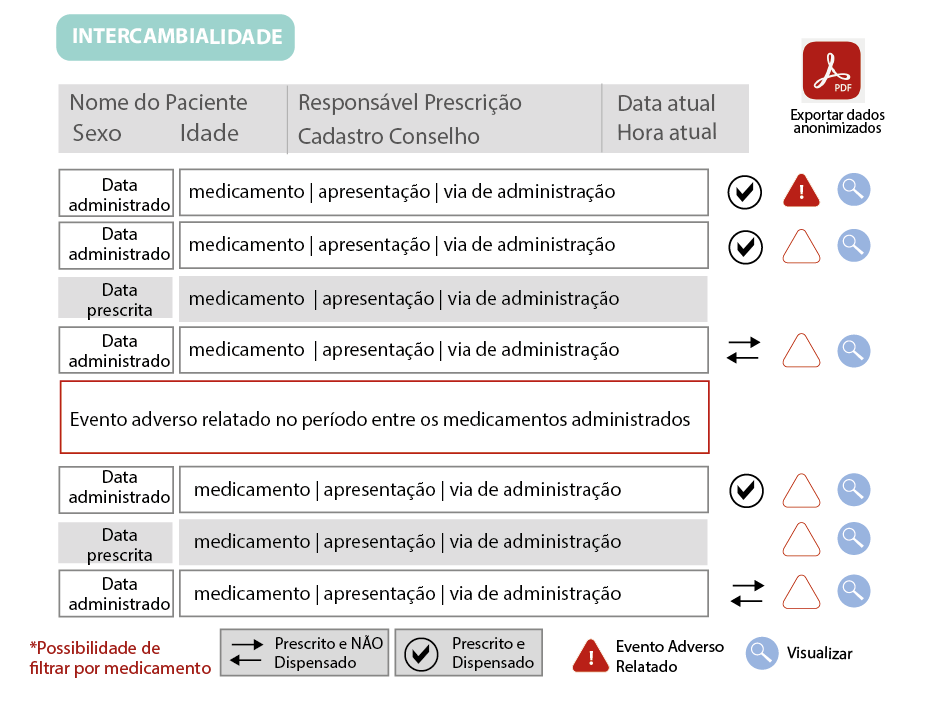
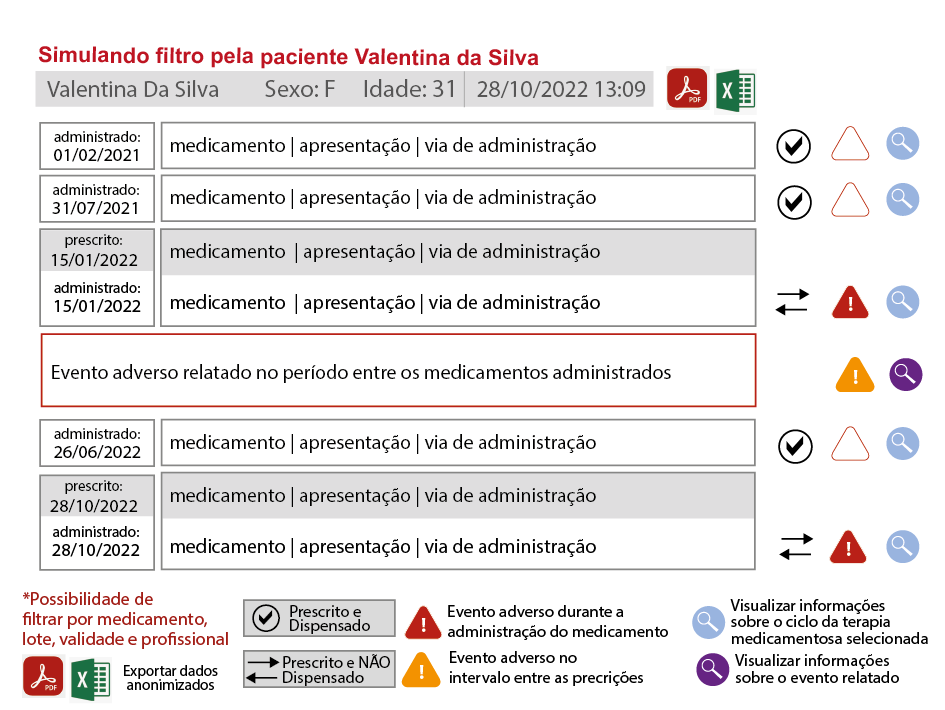
descrição do commit

diff --git a/src/app/components/intercambialidade/intercambialidade-info/intercambialidade-info.component.html b/src/app/components/intercambialidade/intercambialidade-info/intercambialidade-info.component.html
@@ -9,54 +9,22 @@
       </div> -->
       <div class="division">
         <h2 class="raleway" style="color: #0376bb;">
-          Informações da prescrição e dispensação realizada
         </h2>
         <div class="division">
+          A tela abaixo é sugerida para identificar todos medicamentos administrados, 
+          com indicação rápida sobre troca/substituição e evento adverso do paciente selecionado.
           <img src="assets/intercambialidade.png">
-          </div>
+        </div>
+
+      </div>
+
       
-
-        <paciente-medico [paciente]="_paciente_medico"></paciente-medico>
-
-        <medicamento [medicamento]="medicamento_input"></medicamento>
-
-      </div>
-
       <div class="division">
-        <h2 class="raleway" style="color: #0376bb;">
-          Informações da Administração realizada
-        </h2>
-        <div class="division">
-          <div class="block m6 s12">
-            <responsavel [responsavel]="administracao_input?.responsavel"></responsavel>
-          </div>
-          <div class="block m6 s12">
-            <administracao-info [administracao]="administracao_input"></administracao-info>
-          </div>
-        </div>
-
-      </div>
-
-      <div class="division">
-        <div class="division">
-          <h2 class="raleway" style="color: #0376bb;">
-            Controle da Notificação
-          </h2>
-        </div>
+       
         <!--
           evoluir para adicionar varias reações com informação de inicio e e usuario que reporta, quem sabe integrar como o vigimed via api .
           https://primaryreporting.who-umc.org/Reporting/Report?ReporterID=25ba563e-f7f9-4d9d-b9cd-61a1d9589d39 -->
-        <div class="division">
-          <mat-form-field class="block m12" hideRequiredMarker="false" floatLabel="always">
-            <mat-label>Descreva a situação</mat-label>
-            <textarea matInput required formControlName="situacao"
-              placeholder="Descreva com suas palavras qualquer sintoma ou efeito indesejado que considere ser causado pelo(s) medicamento(s)."
-              cdkTextareaAutosize cdkAutosizeMinRows="2" cdkAutosizeMaxRows="3"></textarea>
-            <mat-hint style="font-size: 12px; color: #f44336;" *ngIf="fb.get('situacao')?.invalid">
-              Situação obrigatoria
-            </mat-hint>
-          </mat-form-field>
-        </div>
+
       </div>
 
     </div>
@@ -72,12 +40,6 @@
       matTooltip="Voltar">
       <mat-icon>arrow_back</mat-icon>
       <strong>Voltar</strong>
-    </button>
-
-    <button mat-raised-button style="color: #1dbb3f" (click)="next_stepper()" matTooltipPosition="above"
-      matTooltip="Notificar">
-      <mat-icon>done_outline</mat-icon>
-      <strong>Registrar Notificação</strong>
     </button>
 
   </div>

diff --git a/src/app/components/dispensacao/dispensacao-form/dispensacao-form.component.html b/src/app/components/dispensacao/dispensacao-form/dispensacao-form.component.html
@@ -36,12 +36,12 @@
         </div>
         <mat-form-field class="block m4" hideRequiredMarker="false" floatLabel="always" style="padding-right: 7px;">
           <mat-label>Lote</mat-label>
-          <input aria-label="Lote" matInput type="text" placeholder="Lote_xpto" formControlName="lote">
+          <input aria-label="Lote" matInput type="text" placeholder="Insira o lote" formControlName="lote">
           <mat-error align="end" *ngIf="fb.get('lote')?.invalid">Lote obrigatoria</mat-error>
         </mat-form-field>
         <mat-form-field class="block m4" hideRequiredMarker="false" floatLabel="always">
           <mat-label>Validade</mat-label>
-          <input aria-label="Validade" matInput type="text" placeholder="01/01/2031" formControlName="validade">
+          <input aria-label="Validade" matInput type="text" placeholder="Insira a data ex: 01/01/2001" formControlName="validade">
           <mat-error align="end" *ngIf="fb.get('validade')?.invalid">Validade obrigatoria</mat-error>
         </mat-form-field>
       </div>
@@ -50,7 +50,7 @@
 
         <mat-form-field class="block m12" hideRequiredMarker="false" floatLabel="always">
           <mat-label>Justificativa para a troca</mat-label>
-          <input aria-label="justificativa" matInput type="text" placeholder="justificativa  xpto"
+          <input aria-label="justificativa" matInput type="text" placeholder="justificativa"
             formControlName="justificativa">
           <mat-error align="end" *ngIf="fb.get('justificativa')?.invalid">Lote obrigatoria</mat-error>
         </mat-form-field>

diff --git a/src/app/components/medicamento/medicamento.component.html b/src/app/components/medicamento/medicamento.component.html
@@ -190,11 +190,11 @@
     <div class="division" style="padding: 7px;">
       <div class="division">
         <p style="font-size: 18px;">
-          Diluir em soro fisiológico: {{is_dilutable ? 'Sim' : 'Não'}}
+          Diluir (transformação prevista): {{is_dilutable ? 'Sim' : 'Não'}}
           <span style="margin-left: 7px;">
-            <button mat-button style="background-color: #90f3a6;" (click)="is_dilutable = true">SIM, diluir em soro fisiológico</button>
+            <button mat-button style="background-color: #90f3a6;" (click)="is_dilutable = true">SIM, diluir </button>
             <button mat-button style="margin-left: 7px; background-color: #f49595;"
-              (click)="is_dilutable=false">NÃO diluir em soro fisiológico</button>
+              (click)="is_dilutable=false">NÃO diluir </button>
           </span>
         </p>
       </div>
@@ -271,7 +271,7 @@
 
       <div class="block m4">
         <p style="margin: 0; color: #383838; padding: 0px 0px 7px 0px;">
-          Diluir em soro fisiológico? {{_medicamento.dilute ? 'Sim' : 'Não'}}
+          Diluir (transformação prevista)? {{_medicamento.dilute ? 'Sim' : 'Não'}}
         </p>
         <p
           style="margin: 0; white-space: nowrap; text-overflow: ellipsis; overflow: hidden; font-size: 14px; color: #0000008a;">

diff --git a/src/app/components/rastreabilidade/rastreabilidade.component.html b/src/app/components/rastreabilidade/rastreabilidade.component.html
@@ -8,20 +8,29 @@
           all_inbox
         </mat-icon>
       </span>
-      Rastreabilidade Geral
+      Rastreabilidade
     </h2>
 
   </div>
 
   <div class="container-margin">
 
-    <div class="division" [class.hide]="_form" style="padding-bottom: 17px;">
+    <!--<div class="division" [class.hide]="_form" style="padding-bottom: 17px;">
       <element-list [settings]="settings" [values]="values" (action)="elementListEvent($event)"></element-list>
     </div>
 
-    <!-- <rastreabilidade-info [forms]="_form" (action)="formEvent($event)" [class.hide]="!_form"></rastreabilidade-info> -->
+    <rastreabilidade-info [forms]="_form" (action)="formEvent($event)" [class.hide]="!_form"></rastreabilidade-info> -->
 
 
   </div>
-
+  <div class="block m10" style="margin: auto;">
+  <div class="division">
+    
+      A tela abaixo é sugerida para identificar todos medicamentos administrados,
+      para visalizar lote e validade, 
+          com indicação rápida sobre troca/substituição e evento adverso. <br>
+    <img src="assets/busca.png">
+    <img src="assets/rastreabilidade.png">
+  </div>
+  </div>
 </div>

diff --git a/src/app/components/notificacao/notificacao.component.html b/src/app/components/notificacao/notificacao.component.html
@@ -8,19 +8,28 @@
           circle_notifications
         </mat-icon>
       </span>
-      Notificação de Eventos Adversos a Medicamentos Biológicos
+      Avaliação dos resultados - terapia medicamentosa e eventos adversos
     </h2>
 
   </div>
+  
+ 
+   <div class="division">
+    <img src="assets/busca.png">
+  </div>
+  <div class="division">
+    <img src="assets/avaliacao.png">
+  </div>
 
   <div class="container-margin">
-
+<!--
     <div class="division" [class.hide]="_form" style="padding-bottom: 17px;">
       <element-list [settings]="settings" [values]="values" (action)="elementListEvent($event)"></element-list>
     </div>
 
     <notificacao-form [forms]="_form" (action)="formEvent($event)" [class.hide]="!_form"></notificacao-form>
-
-  </div>
+ -->
+  </div>  
+ 
 
 </div>

diff --git a/src/app/components/intercambialidade/intercambialidade.component.ts b/src/app/components/intercambialidade/intercambialidade.component.ts
@@ -62,7 +62,7 @@ export class IntercambialidadeComponent implements AfterViewInit, OnDestroy {
         radio: false,
         name: '',
         consulta_label: 'Consultar',
-        consulta_placeholder: 'Digite aqui algo relacionado a listagem'
+        consulta_placeholder: 'Faça a busca por paciente, registro hospitalar, medicamento ou período de dispensação'
       }
     });
     const _lresult = [];
@@ -84,6 +84,7 @@ export class IntercambialidadeComponent implements AfterViewInit, OnDestroy {
   /**
    * Methods
    */
+  
 
   private getIntercambialidade(data){
     const result = [];

diff --git a/src/app/components/administracao/administracao-form/administracao-form.component.html b/src/app/components/administracao/administracao-form/administracao-form.component.html
@@ -37,7 +37,7 @@
         <div class="division">
           <mat-form-field class="block m12" hideRequiredMarker="false" floatLabel="always">
             <mat-label>Observação</mat-label>
-            <input aria-label="obs" matInput type="text" placeholder="Observação xpto" formControlName="obs">
+            <input aria-label="obs" matInput type="text" placeholder="Observação" formControlName="obs">
             <mat-error align="end" *ngIf="fb.get('obs')?.invalid">Observação obrigatoria</mat-error>
           </mat-form-field>
         </div>

diff --git a/src/app/components/intercambialidade/intercambialidade-dialog/intercambialidade-dialog.component.ts b/src/app/components/intercambialidade/intercambialidade-dialog/intercambialidade-dialog.component.ts
@@ -74,7 +74,7 @@ export class IntercambialidadeDialogComponent implements AfterViewInit, OnDestro
         radio: false,
         name: '',
         consulta_label: 'Consultar',
-        consulta_placeholder: 'Digite aqui algo relacionado a listagem'
+        consulta_placeholder: 'Faça a busca por paciente, registro hospitalar, medicamento ou período de dispensação'
       }
     });
     const _lresult = [];

diff --git a/src/app/components/administracao/administracao.component.ts b/src/app/components/administracao/administracao.component.ts
@@ -53,7 +53,7 @@ export class AdministracaoComponent implements AfterViewInit, OnDestroy {
         radio: false,
         name: '',
         consulta_label: 'Consultar',
-        consulta_placeholder: 'Digite aqui algo relacionado ao Paciente'
+        consulta_placeholder: 'Faça a busca por paciente, registro hospitalar, medicamento ou período de administração'
       }
     });
     const _lresult = [];

diff --git a/src/app/components/rastreabilidade/rastreabilidade.component.ts b/src/app/components/rastreabilidade/rastreabilidade.component.ts
@@ -62,7 +62,7 @@ export class RastreabilidadeComponent implements AfterViewInit, OnDestroy {
         radio: false,
         name: '',
         consulta_label: 'Consultar',
-        consulta_placeholder: 'Digite aqui algo relacionado a listagem'
+        consulta_placeholder: 'Faça a busca por paciente, registro hospitalar, medicamento ou período de dispensação'
       }
     });
     const _lresult = [];

diff --git a/src/app/components/rastreabilidade/rastreabilidade-dialog/rastreabilidade-dialog.component.ts b/src/app/components/rastreabilidade/rastreabilidade-dialog/rastreabilidade-dialog.component.ts
@@ -73,7 +73,7 @@ export class RastreabilidadeDialogComponent implements OnInit, OnDestroy {
         radio: false,
         name: '',
         consulta_label: 'Consultar',
-        consulta_placeholder: 'Digite aqui algo relacionado a listagem'
+        consulta_placeholder: 'Faça a busca por paciente, registro hospitalar, medicamento ou período de dispensação'
       }
     });
     const _lresult = [];

diff --git a/src/app/components/dispensacao/dispensacao.component.ts b/src/app/components/dispensacao/dispensacao.component.ts
@@ -52,7 +52,7 @@ export class DispensacaoComponent implements AfterViewInit, OnDestroy {
         radio: false,
         name: '',
         consulta_label: 'Consultar',
-        consulta_placeholder: 'Digite aqui algo relacionado ao Paciente'
+        consulta_placeholder: 'Faça a busca por paciente, registro hospitalar, medicamento ou período de dispensação'
       }
     });
     const _lresult = [];
